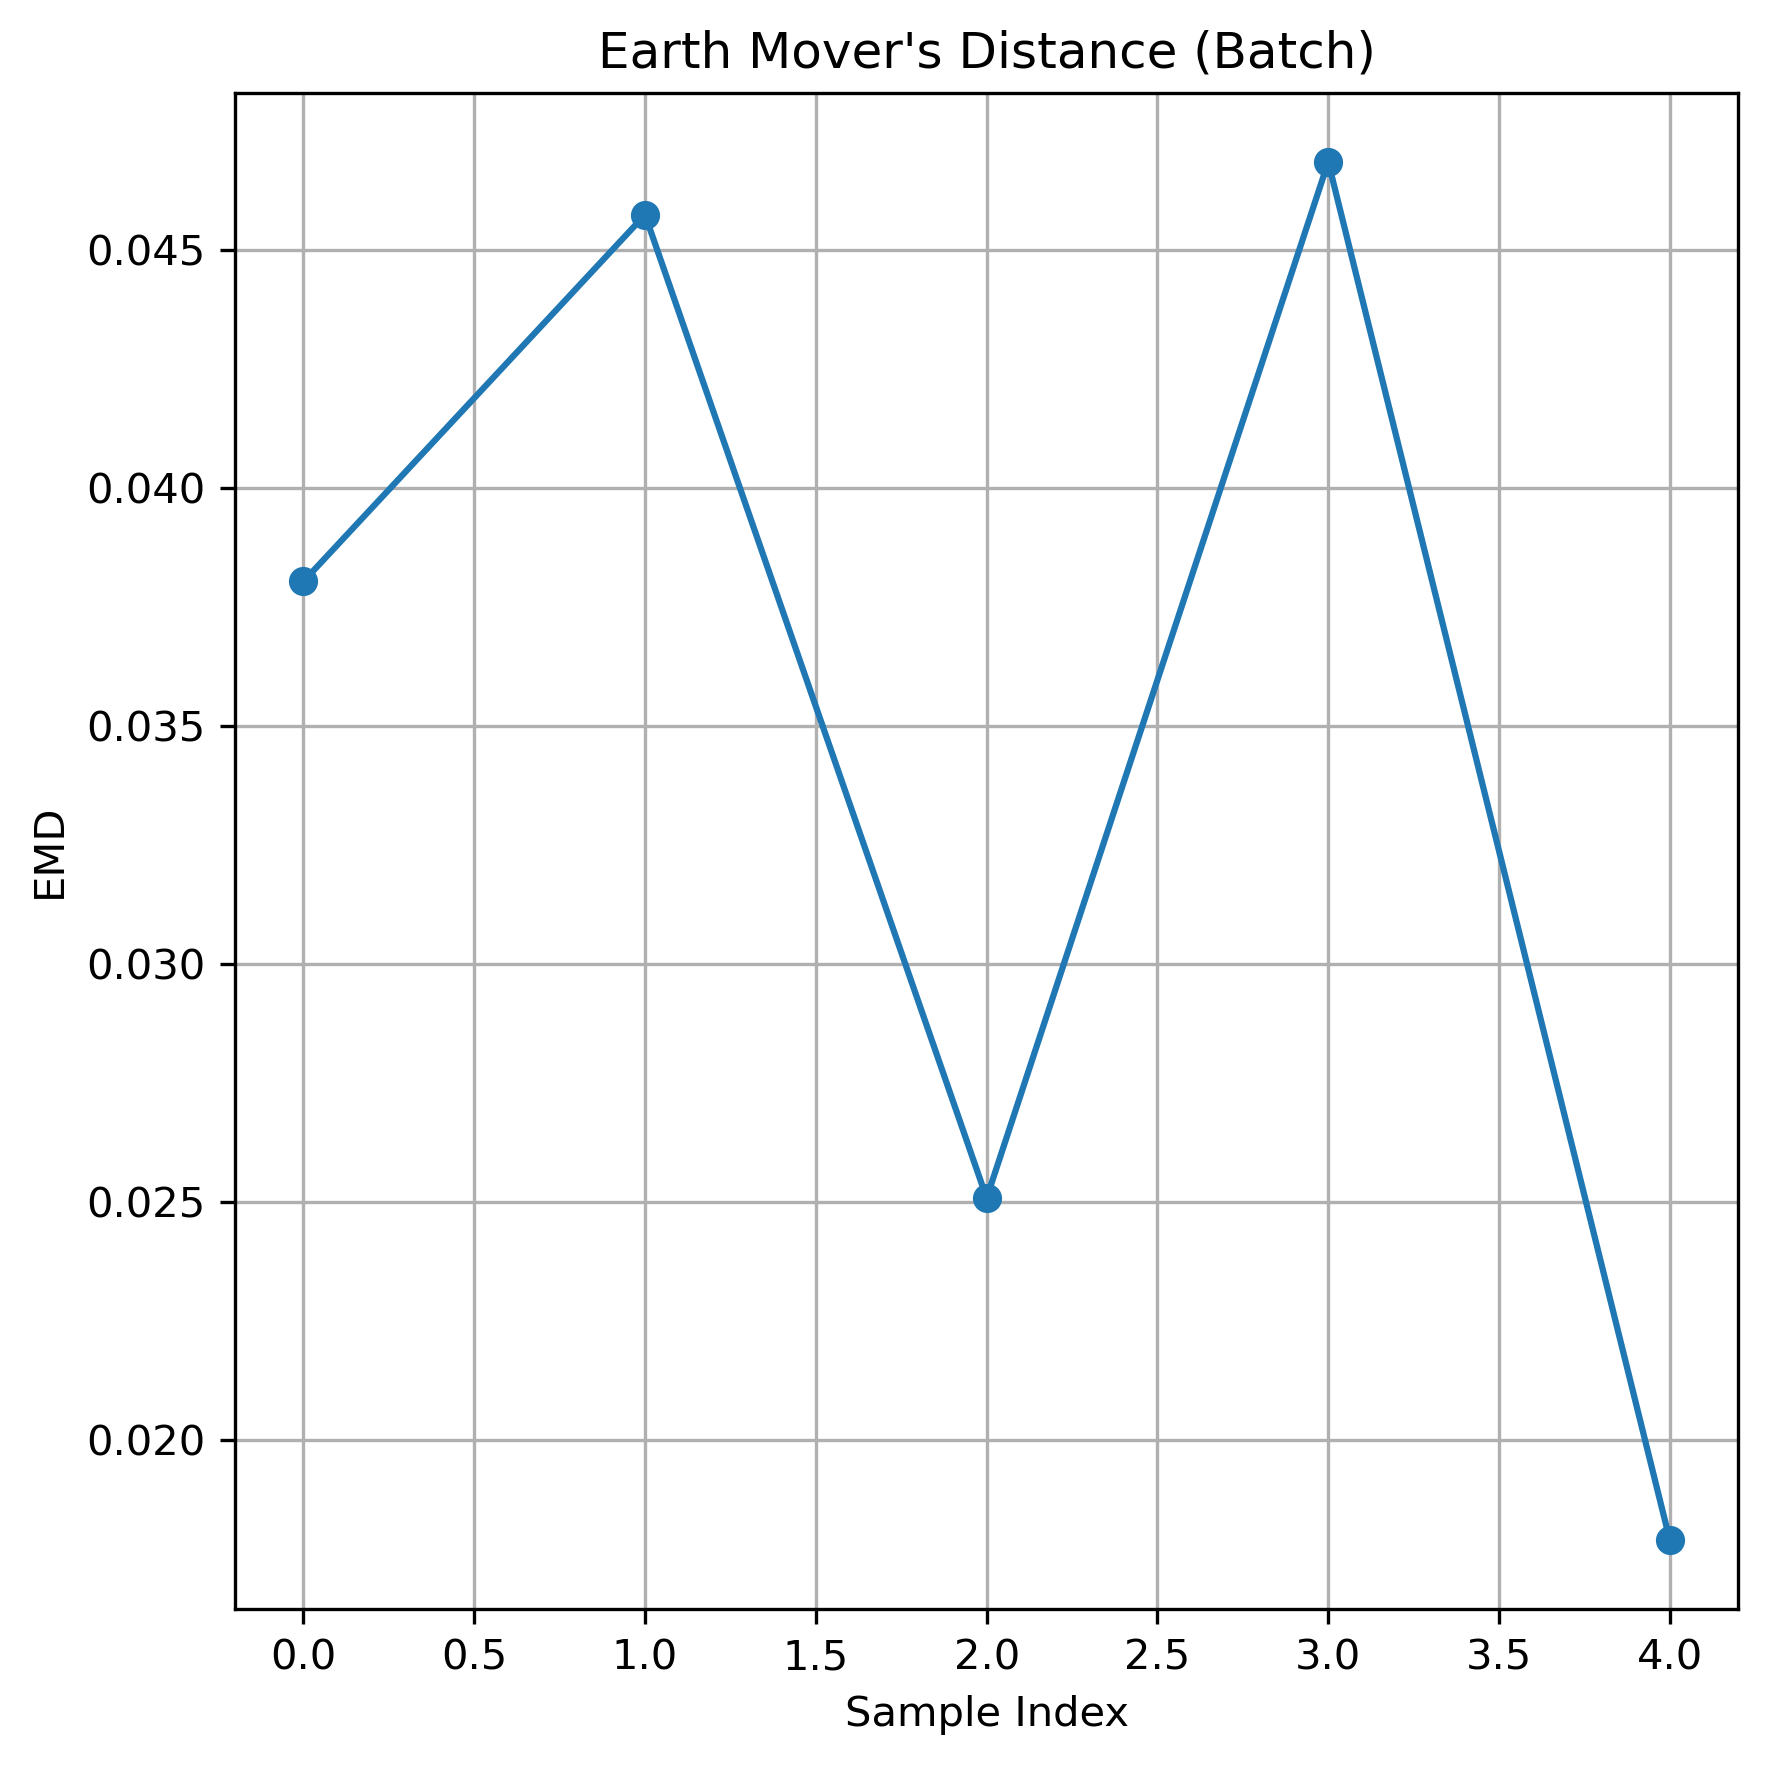
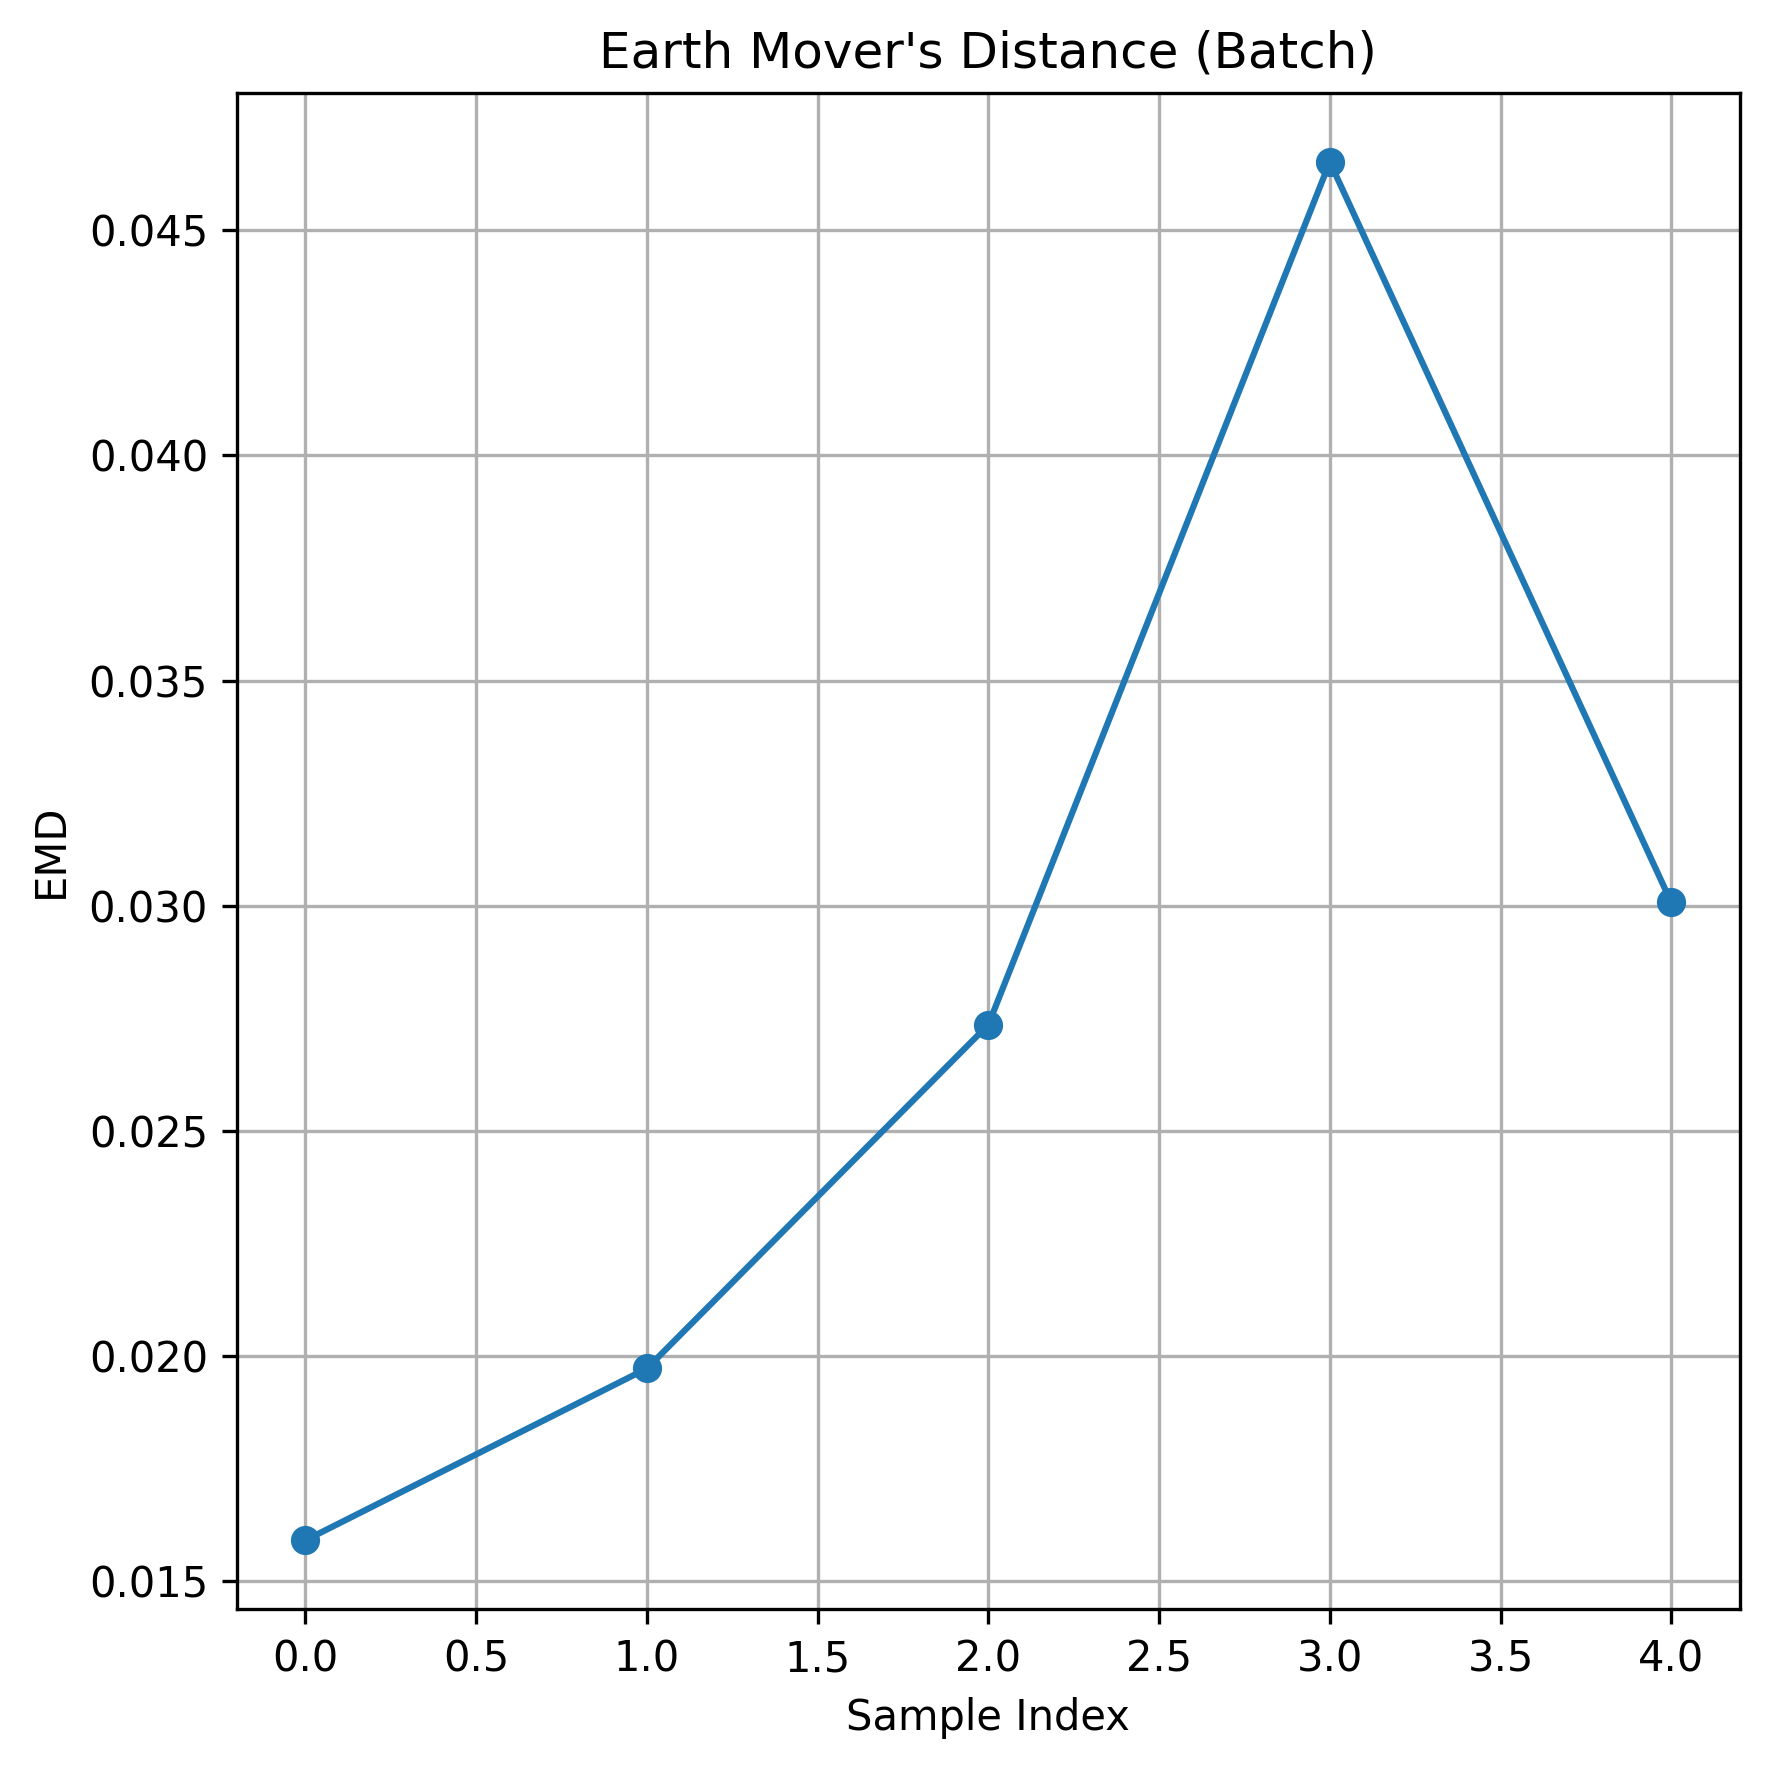
cleaned up code and added comments

diff --git a/celle_assignment_main.py b/celle_assignment_main.py
@@ -1,21 +1,26 @@
-# Import everything needed
+# Import libraries
 import dataloader as data
 from vqgan import VQGAN, VectorQuantizer
 import tensorflow as tf
 from transformer import TransformerModel
 from utilities import *
 import matplotlib.pyplot as plt
-import os
+import numpy as np
+import ot
+from scipy.spatial.distance import cdist
 
+# Setting paramaters for plots
 plt.rcParams['savefig.dpi'] = 300
 plt.rcParams['savefig.bbox'] = 'tight'
 
-# Creating + training the model - training data should be in (batch_size, 64, 64, 1) normalized to [-1, 1]
 def train_vqgan(train_dataset, target_dataset):
+    '''
+    Creating + training the model - training data should be in (batch_size, 64, 64, 1) normalized to [-1, 1]
+    '''
     vqgan = VQGAN(latent_dim=128)
     # Compiling the model with optimizer and loss
     vqgan.compile(
-        optimizer=tf.keras.optimizers.legacy.Adam(learning_rate=1e-3),
+        optimizer=tf.keras.optimizers.legacy.Adam(learning_rate=1e-4),
         loss=tf.keras.losses.MeanSquaredError(), # Reconstruction loss
     )
     history = vqgan.fit(train_dataset, target_dataset, epochs=10, verbose=2) # Training the model
@@ -27,36 +32,65 @@ def train_vqgan(train_dataset, target_dataset):
     plt.xlabel('Epoch')
     plt.ylabel('Loss')
     plt.legend()
-    plt.savefig('vqgan_training_loss.png', dpi=300, bbox_inches='tight')
+    plt.savefig('vqgan_training_loss.png')
     plt.close()
 
     vqgan.save('vqgan_model') # Saving the trained model
 
+def tensor_to_image(tensor):
+    '''
+    Converts tensor to iamge
+    '''
+    tensor = tf.convert_to_tensor(tensor)
 
-# # Example Usage:
-# prob_map = np.random.rand(256, 256)  # Example probability heat map
-# ground_truth = np.random.rand(256, 256)  # Example ground truth image
+    # Normalize if needed (optional, depending on how your tensor looks)
+    if tf.reduce_max(tensor) > 1.0:
+        tensor = tensor / tf.reduce_max(tensor)
 
-# emd_result = compute_emd(prob_map, ground_truth)
-# print(f"Earth Mover's Distance: {emd_result}")
+    # If grayscale, expand dims to 3 channels
+    if len(tensor.shape) == 2:
+        tensor = tf.expand_dims(tensor, axis=-1)
+
+    tensor = tf.clip_by_value(tensor, 0.0, 1.0) # make sure values are between 0-1
+    return tensor
+
+
+def compute_emd(nucleus_data_list, density_maps):
+    '''
+    Computes Earth Mover's Distance - a new type of metric
+    '''
+    # Stack the list into a proper tensor
+    nucleus_data = tf.stack(nucleus_data_list, axis=0)  # Shape: [batch, 256, 256]
+
+    nucleus_flat = tf.reshape(nucleus_data, [tf.shape(nucleus_data)[0], -1])
+    density_flat = tf.reshape(density_maps, [tf.shape(density_maps)[0], -1])
+
+    nucleus_flat /= tf.reduce_sum(nucleus_flat, axis=1, keepdims=True) + 1e-8
+    density_flat /= tf.reduce_sum(density_flat, axis=1, keepdims=True) + 1e-8
+
+    nucleus_cdf = tf.cumsum(nucleus_flat, axis=1)
+    density_cdf = tf.cumsum(density_flat, axis=1)
+
+    emd_per_sample = tf.reduce_mean(tf.abs(nucleus_cdf - density_cdf), axis=1)
+
+    return emd_per_sample
+
+def save_img(img, fname):
+    '''
+    Saves images to images/ folder
+    '''
+    image = tensor_to_image(img)
+    plt.imshow(tf.squeeze(image), cmap='gray') # squeeze removes extra channel if needed
+    plt.axis('off')
+    plt.savefig(f'images/{fname}.png')
+
+
 
 def main():
-    # --Example usage--
-    # Preprocessing data
-    # Downloads cell images from OpenCell dataset, comment out if already downloaded
-
-    # Model creation
-
-    # Metrics 
-
-
-
-
-
     # Preprocess
 
     # # downloads images from OpenCell and put them into a csv and processed data folders
-    # processed_data = data.preprocess()
+    # processed_data = data.dataloader()
     # limit = 100
     # # processed_data.download_cell_imgages(limit=limit) # download function for OpenCell AWS server - only argument is how many TOTAL images you want to download, None means download ALL images
     # processed_data.populate_inputs("unprocessed_data", "processed_data") # splits .tiff images into .png images
@@ -65,26 +99,40 @@ def main():
     # creates the vectorized dataset to pass into VQGAN
     dataset = data.OpenCellLoaderTF("data.csv", crop_size=256).get_dataset()
 
-    # Map nucleus and threshold images into two-channel images
-    def vqgan_two_channel_inputs(data):
-        return (tf.concat([data['nucleus'], data['threshold']], axis=-1)) * 2
+    # Get data in four separate tensors
+    nucleus_list = []
+    target_list = []
+    threshold_list = []
+    sequence_list = []
 
-    vqgan_dataset = dataset.map(vqgan_two_channel_inputs).shuffle(1000).batch(32).prefetch(tf.data.AUTOTUNE)
+    # Adding batches to respective lists
+    for batch in dataset:
+        nucleus_list.append(batch["nucleus"])
+        target_list.append(batch["target"])
+        threshold_list.append(batch["threshold"])
+        sequence_list.append(batch["sequence"])
+
+    # Making lists into tensors
+    nucleus_tensor = tf.stack(nucleus_list)
+    target_tensor = tf.stack(target_list) # Probably not useful
+    threshold_tensor = tf.stack(threshold_list)
+    sequence_tensor = tf.stack(sequence_list)
 
     # VQGAN
     
     # Traning vqgan
-    combined_list = nucleus_list + threshold_list
-    combined_tensor = tf.stack(combined_list)
-    train_vqgan(combined_tensor, combined_tensor)
+    # combined_list = nucleus_list + threshold_list
+    # combined_tensor = tf.stack(combined_list)
+    # train_vqgan(combined_tensor, combined_tensor)
     vqgan = tf.keras.models.load_model('vqgan_model', custom_objects={'VectorQuantizer': VectorQuantizer})
 
 
+    # Feeding in nucleus images into vqgan
     nucleus_data = vqgan(nucleus_tensor)
     print(f"nucleus data output {nucleus_data}")
     print(f"Nucleus data shape: {nucleus_data.shape}")  
 
-    # For the threshold image
+    ## Feeding in threshold images into vqgan
     threshold_data = vqgan(threshold_tensor)
     print(f"threshold data output {threshold_data}")
     print(f"threshold data shape: {threshold_data.shape}")  
@@ -102,10 +150,9 @@ def main():
 
 
 
-    # Concatenate
+    # Concatenating embeddings
     concat_input = tf.concat([sequence, nucleus_data, threshold_data], axis=1)
     print(f"Concatentation shape: {concat_input.shape}")
-
 
 
     # Transformer Model
@@ -119,14 +166,9 @@ def main():
     density_maps = density_model(transformer_output)
     print(f"Density map shape: {density_maps.shape}")  # (3, 256, 256, 1)
 
-    # overlay_density_on_image(nucleus_image, density_map, alpha=0.5)
 
-    # emd_value = compute_emd(density_map, threshold_image)
-    # print(f"emd value: {emd_value}")
-
-
+    # Computing EMD values and plotting rsule
     emd_scores = compute_emd(nucleus_list, density_maps).numpy()
-
     plt.figure(figsize=(6, 6))
     plt.plot(emd_scores, marker='o')
     plt.title('Earth Mover\'s Distance (Batch)')
@@ -136,10 +178,9 @@ def main():
     plt.tight_layout()
     plt.savefig('emd.png')
     plt.close()
-    
-    if not os.path.exists('images'):
-        os.makedirs('images')
 
+
+    # Saving images
     for i, imgs in enumerate(zip(threshold_list, nucleus_list, target_list, density_maps)):
         t_img, n_img, tar_img, d_map = imgs
         overlay_density_on_image(image=t_img, density_map=d_map, fname=f'threshold_density{i}', alpha=0.5)
